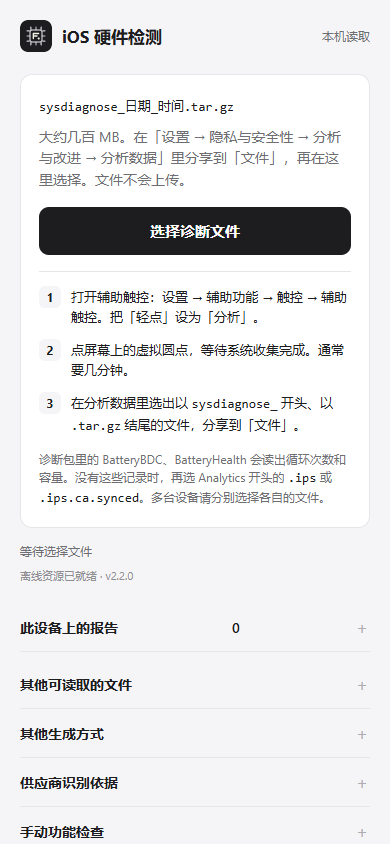
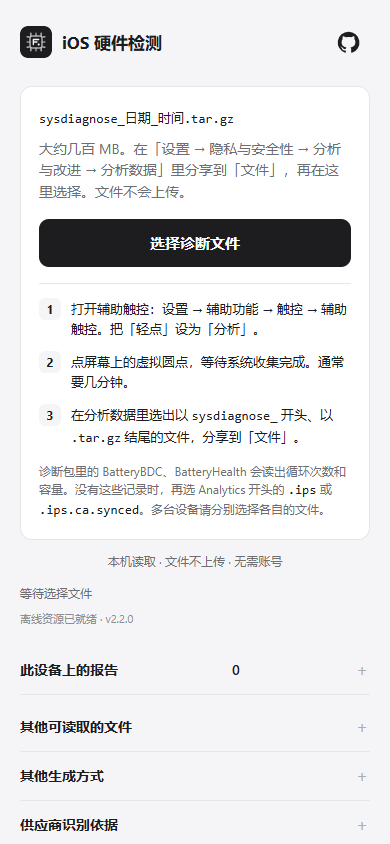
Add GitHub navigation and Lanye Lab project branding

diff --git a/index.html b/index.html
@@ -2,7 +2,7 @@
 <html lang="zh-CN"><head>
 <meta charset="utf-8"><meta name="viewport" content="width=device-width,initial-scale=1,viewport-fit=cover"><meta name="theme-color" content="#f5f5f7"><meta name="apple-mobile-web-app-capable" content="yes"><meta name="apple-mobile-web-app-title" content="iOS 硬件检测"><meta http-equiv="Content-Security-Policy" content="default-src 'self'; connect-src 'self'; script-src 'self'; style-src 'self'; img-src 'self' blob:; media-src 'self' blob:; worker-src 'self'; object-src 'none'; base-uri 'none'; form-action 'none'"><meta name="description" content="在设备本地读取 iOS 诊断包，查看硬件配置、供应商线索与电池记录。"><title>iOS 硬件检测</title><link rel="manifest" href="./manifest.webmanifest?v=2.2.0"><link rel="icon" href="./icon.svg?v=2.2.0"><link rel="apple-touch-icon" href="./icon-192.png?v=2.2.0"><link rel="stylesheet" href="./style.css?v=2.2.0"></head>
 <body><main>
-<header><div class="brand"><img src="./icon.svg?v=2.2.0" alt=""><div>iOS 硬件检测</div></div><span class="badge">本机读取</span></header>
+<header><div class="brand"><img src="./icon.svg?v=2.2.0" alt=""><div>iOS 硬件检测</div></div><nav class="header-nav" aria-label="项目链接"><a class="github-link" href="https://github.com/dethan3/ios-hardware-check" target="_blank" rel="noopener noreferrer" aria-label="在 GitHub 查看项目源码（新窗口）" title="GitHub · 查看源码"><svg viewBox="0 0 24 24" width="23" height="23" aria-hidden="true" fill="currentColor"><path d="M12 .75a11.25 11.25 0 0 0-3.558 21.923c.563.104.768-.244.768-.543 0-.267-.01-.974-.015-1.912-3.13.68-3.79-1.508-3.79-1.508-.512-1.3-1.25-1.646-1.25-1.646-1.022-.7.078-.686.078-.686 1.13.08 1.726 1.16 1.726 1.16 1.005 1.724 2.636 1.226 3.278.938.102-.728.394-1.226.715-1.508-2.499-.284-5.126-1.25-5.126-5.566 0-1.23.44-2.235 1.16-3.023-.116-.285-.503-1.43.11-2.98 0 0 .945-.303 3.094 1.155A10.78 10.78 0 0 1 12 6.175c.956.005 1.919.129 2.817.379 2.148-1.458 3.091-1.155 3.091-1.155.615 1.55.228 2.695.112 2.98.722.788 1.159 1.793 1.159 3.023 0 4.326-2.632 5.28-5.14 5.56.405.35.767 1.043.767 2.102 0 1.518-.014 2.743-.014 3.115 0 .302.203.653.774.542A11.251 11.251 0 0 0 12 .75Z"/></svg></a></nav></header>
 <section class="import">
  <p class="file-name"><code>sysdiagnose_日期_时间.tar.gz</code></p>
  <p class="lede">大约几百 MB。在「设置 → 隐私与安全性 → 分析与改进 → 分析数据」里分享到「文件」，再在这里选择。文件不会上传。</p>
@@ -14,6 +14,7 @@
  </ol>
  <p class="hint">诊断包里的 BatteryBDC、BatteryHealth 会读出循环次数和容量。没有这些记录时，再选 Analytics 开头的 <code>.ips</code> 或 <code>.ips.ca.synced</code>。多台设备请分别选择各自的文件。</p>
 </section>
+<p class="local-assurance">本机读取 · 文件不上传 · 无需账号</p>
 <div class="runtime"><p id="status" role="status" aria-live="polite">等待选择文件</p><progress id="progress" max="100" hidden aria-label="本地读取进度"></progress><button id="cancel" hidden>取消读取</button><div class="offline-row"><span id="offline" role="status">正在准备离线资源…</span></div></div>
 <div id="file-results" class="file-results" hidden aria-label="已读取文件"></div>
 <section id="report" hidden>
@@ -31,8 +32,6 @@
 <details><summary>其他生成方式</summary><p>也可以同时按下音量上、音量下和侧边键约一秒，感到短震动后松开。文件名仍是 <code>sysdiagnose_日期_时间±时区_….tar.gz</code>，体积通常是几百 MB，不是固定的 320 MiB。</p><p><a href="https://developer.apple.com/feedback-assistant/profiles-and-logs/" target="_blank" rel="noopener noreferrer">Apple 官方诊断说明 ↗</a></p><p>不需要安装描述文件，也不要把完整诊断包交给服务器。本工具只提取受支持的硬件与电池字段。</p></details>
 <details><summary>供应商识别依据</summary><p>「日志直接记录」表示文件中写出了厂商或型号文本。「资料对照」表示用部件代号前缀查本地数据表，可以关闭。</p><p>屏幕：G9N / G9P / G9Q → 三星显示，GH3 / GVC → LG，J5V → 京东方。电池：F5D → 惠州德赛，F8Y → 欣旺达，FG9 / F9Y → 新普科技。日志里直接写出的英文厂名会显示成对应中文名。没有收录的代号保持未识别，不编造档次。京东方有部分 iPhone 的 OLED 供货报道，不是每台都有；J5V 只是社区把诊断序列号前缀对上去。B02、B03 的公开说法互相矛盾，不收录。</p><p><a href="https://www.reddit.com/r/iphone18pro/comments/1wss5qr/sidebyside_display_comparison_gvclg_vs_g9nsamsung/" target="_blank" rel="noopener noreferrer">屏幕社区映射来源 ↗</a> · <a href="https://gist.github.com/bazad/1faef1a6fe396b820a43170b43e38be1" target="_blank" rel="noopener noreferrer">公开硬件树样本 ↗</a></p><p>没有质量评分。部件是否真实、是否维修，应结合 <a href="https://support.apple.com/en-us/102658" target="_blank" rel="noopener noreferrer">Apple 部件与维修历史</a>。</p></details>
 <details id="manual"><summary>手动功能检查</summary><p>这些检查依靠实际观察，不能由日志或供应商名称代替。</p><h3>屏幕与触控</h3><p>进入纯色画面检查明显坏点或色块；不同亮度下的均匀性仍需你观察。</p><button id="screen-test">打开纯色画面</button><p>在下方拖动手指，观察轨迹是否连续。浏览器手势和边缘区域可能影响测试。</p><canvas id="touch" width="600" height="260" aria-label="触控轨迹检查区域"></canvas><button id="touch-clear">清空轨迹</button><h3>摄像头</h3><p>主动点击后才会请求摄像头权限。画面不拍照、不上传；浏览器无法保证切换每一个物理镜头。</p><div class="camera-actions"><button id="camera-front">前置预览</button><button id="camera-rear">后置预览</button><button id="camera-stop">关闭预览</button></div><video id="camera" autoplay muted playsinline hidden></video><p id="camera-status" role="status"></p></details>
-<details><summary>离线使用与隐私</summary><p>在 Safari 分享菜单中「添加到主屏幕」。首次联网看到“离线资源已就绪”后，可尝试断网打开。系统可能清除网站缓存。</p><p>原始文件只在本地工作线程中读取，不发送、不持久化，也不会进入离线缓存。序列号默认遮盖。只有点击「保存到此设备」才在浏览器数据库保存脱敏结果，可以逐项删除；清除本次记录仅清空内存。</p><p>导出不包含完整日志、原始设备标识或完整部件序列号。文件中的时间、地区和容量等字段仍可能透露设备信息，分享前请检查。初次加载和更新会请求 GitHub Pages 的应用资源，托管方可能记录 IP 等访问元数据。</p></details>
-</section><footer><span>iOS 硬件检测</span><span>独立工具 · 非 Apple 官方</span></footer>
+<details id="privacy"><summary>离线使用与隐私</summary><p>在 Safari 分享菜单中「添加到主屏幕」。首次联网看到“离线资源已就绪”后，可尝试断网打开。系统可能清除网站缓存。</p><p>原始文件只在本地工作线程中读取，不发送、不持久化，也不会进入离线缓存。序列号默认遮盖。只有点击「保存到此设备」才在浏览器数据库保存脱敏结果，可以逐项删除；清除本次记录仅清空内存。</p><p>导出不包含完整日志、原始设备标识或完整部件序列号。文件中的时间、地区和容量等字段仍可能透露设备信息，分享前请检查。初次加载和更新会请求 GitHub Pages 的应用资源，托管方可能记录 IP 等访问元数据。</p></details>
+</section><footer class="site-footer"><div class="studio"><strong>Lanye Lab</strong><span>兰野实验室</span><p>在未知中探索，让想法生长。</p></div><nav class="footer-nav" aria-label="关于项目"><a href="https://github.com/dethan3/ios-hardware-check" target="_blank" rel="noopener noreferrer">项目源码 ↗</a><a href="https://github.com/dethan3/ios-hardware-check/issues" target="_blank" rel="noopener noreferrer">反馈问题 ↗</a><a href="#privacy">隐私说明</a></nav><div class="footer-bottom"><span>由兰野实验室维护 · © 2026 Lanye Lab</span><span>独立工具 · 非 Apple 官方</span></div></footer>
 </main><div id="screen-overlay" hidden><button id="screen-next">切换颜色</button><button id="screen-close">退出检查</button><p>点击切换颜色，检查明显坏点或色块</p></div><script type="module" src="./app.js?v=2.2.0"></script></body></html>
-
-

diff --git a/app.js b/app.js
@@ -49,6 +49,7 @@ async function history(){try{const rows=await operation('readonly',s=>s.getAll()
  }catch{$('history-list').replaceChildren(node('p','此浏览器无法使用本机报告存储；仍可读取或导出。'));}}
 $('save').onclick=async()=>{if(!reports[current])return;try{const existing=await operation('readonly',s=>s.getAll());if(existing.length>=20){$('status').textContent='本机最多保存 20 个报告，请先删除不需要的记录。';return;}const r=sanitized(reports[current]);r.id=crypto.randomUUID();await operation('readwrite',s=>s.put(r));await history();$('status').textContent='已保存脱敏报告到此浏览器；原始文件没有保存。';}catch{$('status').textContent='保存失败；可使用导出脱敏报告。';}};
 history();
+document.querySelector('a[href="#privacy"]')?.addEventListener('click',()=>{const section=$('privacy');if(section)section.open=true;});
 if('serviceWorker' in navigator){navigator.serviceWorker.register('./sw.js',{updateViaCache:'none'}).then(async reg=>{await navigator.serviceWorker.ready;$('offline').textContent='离线资源已就绪 · v2.2.0';}).catch(()=>{$('offline').textContent='离线资源未就绪；本地读取仍可尝试。';});}else $('offline').textContent='当前浏览器不支持离线缓存。';
 let colorIndex=0;const colors=['#fff','#000','#f00','#0f0','#00f','#808080'];$('screen-test').onclick=()=>{colorIndex=0;$('screen-overlay').style.background=colors[0];$('screen-overlay').hidden=false;};$('screen-next').onclick=()=>{$('screen-overlay').style.background=colors[++colorIndex%colors.length];};$('screen-close').onclick=()=>{$('screen-overlay').hidden=true;};document.addEventListener('keydown',e=>{if(e.key==='Escape')$('screen-overlay').hidden=true;});
 const canvas=$('touch'),ctx=canvas.getContext('2d'),points=new Map();function position(e){const b=canvas.getBoundingClientRect();return {x:(e.clientX-b.left)*canvas.width/b.width,y:(e.clientY-b.top)*canvas.height/b.height};}canvas.onpointerdown=e=>{points.set(e.pointerId,position(e));canvas.setPointerCapture(e.pointerId);};canvas.onpointermove=e=>{if(!points.has(e.pointerId))return;const p=position(e),old=points.get(e.pointerId);ctx.beginPath();ctx.moveTo(old.x,old.y);ctx.lineTo(p.x,p.y);ctx.strokeStyle='#1d1d1f';ctx.lineWidth=4;ctx.lineCap='round';ctx.stroke();points.set(e.pointerId,p);};for(const type of ['pointerup','pointercancel'])canvas.addEventListener(type,e=>points.delete(e.pointerId));$('touch-clear').onclick=()=>{ctx.clearRect(0,0,canvas.width,canvas.height);points.clear();};

diff --git a/style.css b/style.css
@@ -2,3 +2,5 @@
 
 .report-head{justify-content:flex-end}.component summary{display:grid;grid-template-columns:minmax(100px,1fr) minmax(0,2fr);gap:4px 12px}.component-summary{overflow-wrap:anywhere}.confidence{grid-column:2;text-align:right;color:#86868b;font-size:11px}.metric-sheet{grid-template-columns:repeat(2,minmax(0,1fr))}.metric p{font-size:12px}.report-notes details{font-size:12px}#battery-notes>p:first-child{color:#1d1d1f;font-weight:600}#device-evidence .evidence{overflow-wrap:anywhere}.file-results button{max-width:100%;overflow-wrap:anywhere}#group{max-width:100%}
 .component summary{grid-template-columns:minmax(96px,1fr) minmax(0,2fr) 10px;gap:4px 8px;min-height:74px}.component summary:after{grid-column:3;grid-row:1 / 3;align-self:center}.confidence{grid-column:2;grid-row:2}.component-label{grid-column:1;grid-row:1 / 3;align-self:center}.component-summary{grid-column:2;grid-row:1}.report-actions button{font-size:13px}
+footer{align-items:center;flex-wrap:wrap}.footer-brand{display:grid;gap:4px}.source-link{display:inline-flex;align-items:center;min-height:44px;font-size:12px;font-weight:550;text-decoration:none;white-space:nowrap}.source-link:hover{text-decoration:underline}
+.header-nav{display:flex;align-items:center}.github-link{display:grid;place-items:center;width:44px;height:44px;border-radius:10px;color:#1d1d1f}.github-link:hover{background:#eaeaec}.local-assurance{text-align:center;font-size:12px;color:#6e6e73;margin:12px 0 0}.site-footer{display:grid;grid-template-columns:1fr auto;border-top:1px solid #dddde2;padding-top:24px;margin-top:30px;gap:18px 24px}.studio{display:grid;gap:5px}.studio strong{font-size:20px;font-weight:650;color:#1d1d1f;letter-spacing:-.4px}.studio>span{font-size:12px;color:#6e6e73}.studio p{font-size:12px;margin:3px 0 0}.footer-nav{display:grid;align-content:start;gap:0}.footer-nav a{display:flex;align-items:center;min-height:36px;font-size:12px;text-decoration:none}.footer-nav a:hover{text-decoration:underline}.footer-bottom{grid-column:1 / -1;border-top:1px solid #e6e6e8;padding-top:14px;display:flex;justify-content:space-between;flex-wrap:wrap;gap:8px;font-size:10px;color:#8e8e93}@media(max-width:360px){.site-footer{grid-template-columns:1fr}.footer-nav{display:flex;flex-wrap:wrap;gap:14px}}

diff --git a/sw.js b/sw.js
@@ -1,4 +1,4 @@
-const CACHE='battery-local-v12-hardware';
+const CACHE='battery-local-v13-source-link';
 const ASSETS=['./','./index.html','./style.css','./app.js','./analyzer.js','./ingest.js','./plist.js','./rules.js','./records.js','./hardware.js','./hardware-summary.js','./vendors.js','./worker.js','./manifest.webmanifest','./icon.svg','./icon-192.png','./icon-512.png'];
 self.addEventListener('install',event=>event.waitUntil(caches.open(CACHE).then(cache=>cache.addAll(ASSETS.map(url=>new Request(url,{cache:'reload'})))).then(()=>self.skipWaiting())));
 self.addEventListener('activate',event=>event.waitUntil(caches.keys().then(keys=>Promise.all(keys.filter(k=>k.startsWith('battery-local-')&&k!==CACHE).map(k=>caches.delete(k)))).then(()=>self.clients.claim())));

diff --git a/PUBLISHING.md b/PUBLISHING.md
@@ -6,9 +6,10 @@ Display name: iOS 硬件检测. GitHub Pages: https://dethan3.github.io/ios-hard
 
 The user reports Pages is already enabled. This static application needs no build: deploy main, repository root. The parser workflow runs Node tests; it is not the Pages deployment workflow. GitHub Pages branch deployment should publish source commits automatically under the existing configuration.
 
-All URLs are relative, including manifest and service worker. Cache v12 installs automatically and activates without an update button. Online resource requests prefer the network, with a four-second timeout and offline cache fallback. Existing open pages are not forcibly reloaded.
+All URLs are relative, including manifest and service worker. Cache v13 installs automatically and activates without an update button. Online resource requests prefer the network, with a four-second timeout and offline cache fallback. Existing open pages are not forcibly reloaded.
 
 The site is public; code and rules are public. Selected diagnostic files stay on the device. Keep real diagnostics out of Git, issues and test fixtures. Browser/Node checks and remaining limitations are recorded in VALIDATION.md.
+
 
 
 

diff --git a/README.md b/README.md
@@ -233,5 +233,6 @@ Service Worker 需要 HTTPS 或 localhost。资源使用相对路径，适配 Gi
 
 <div align="center">
   <p><strong>读得到的，给出依据；读不到的，保留未知。</strong></p>
+  <p>由兰野实验室 · Lanye Lab 维护。在未知中探索，让想法生长。</p>
   <p>独立项目，与 Apple 或其他诊断 App 无关联。</p>
 </div>
